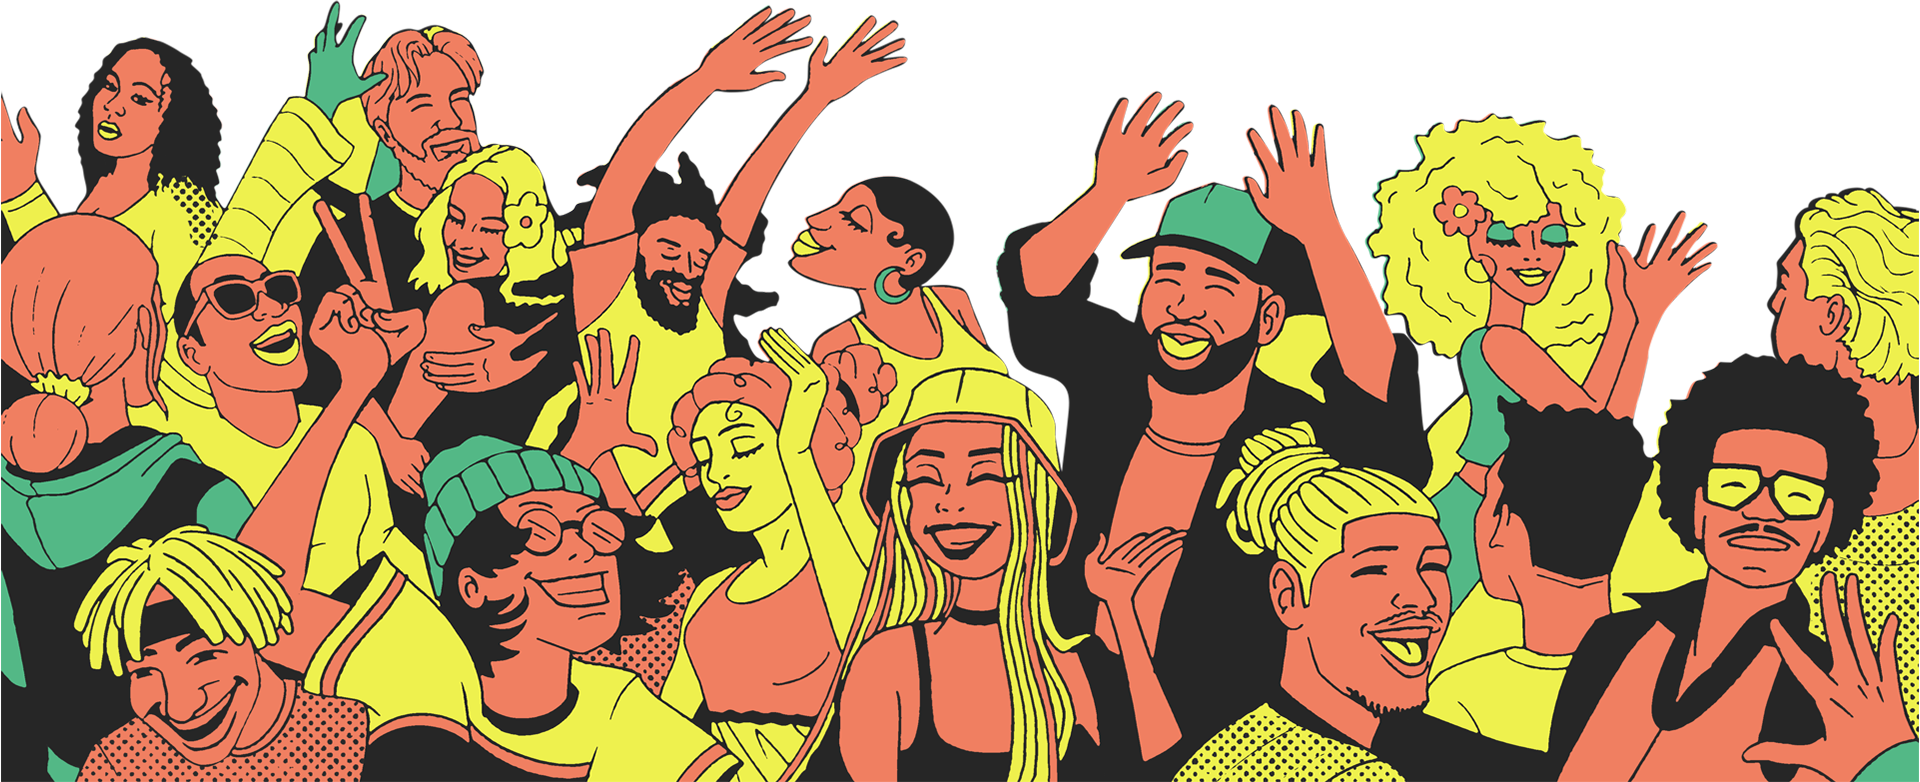
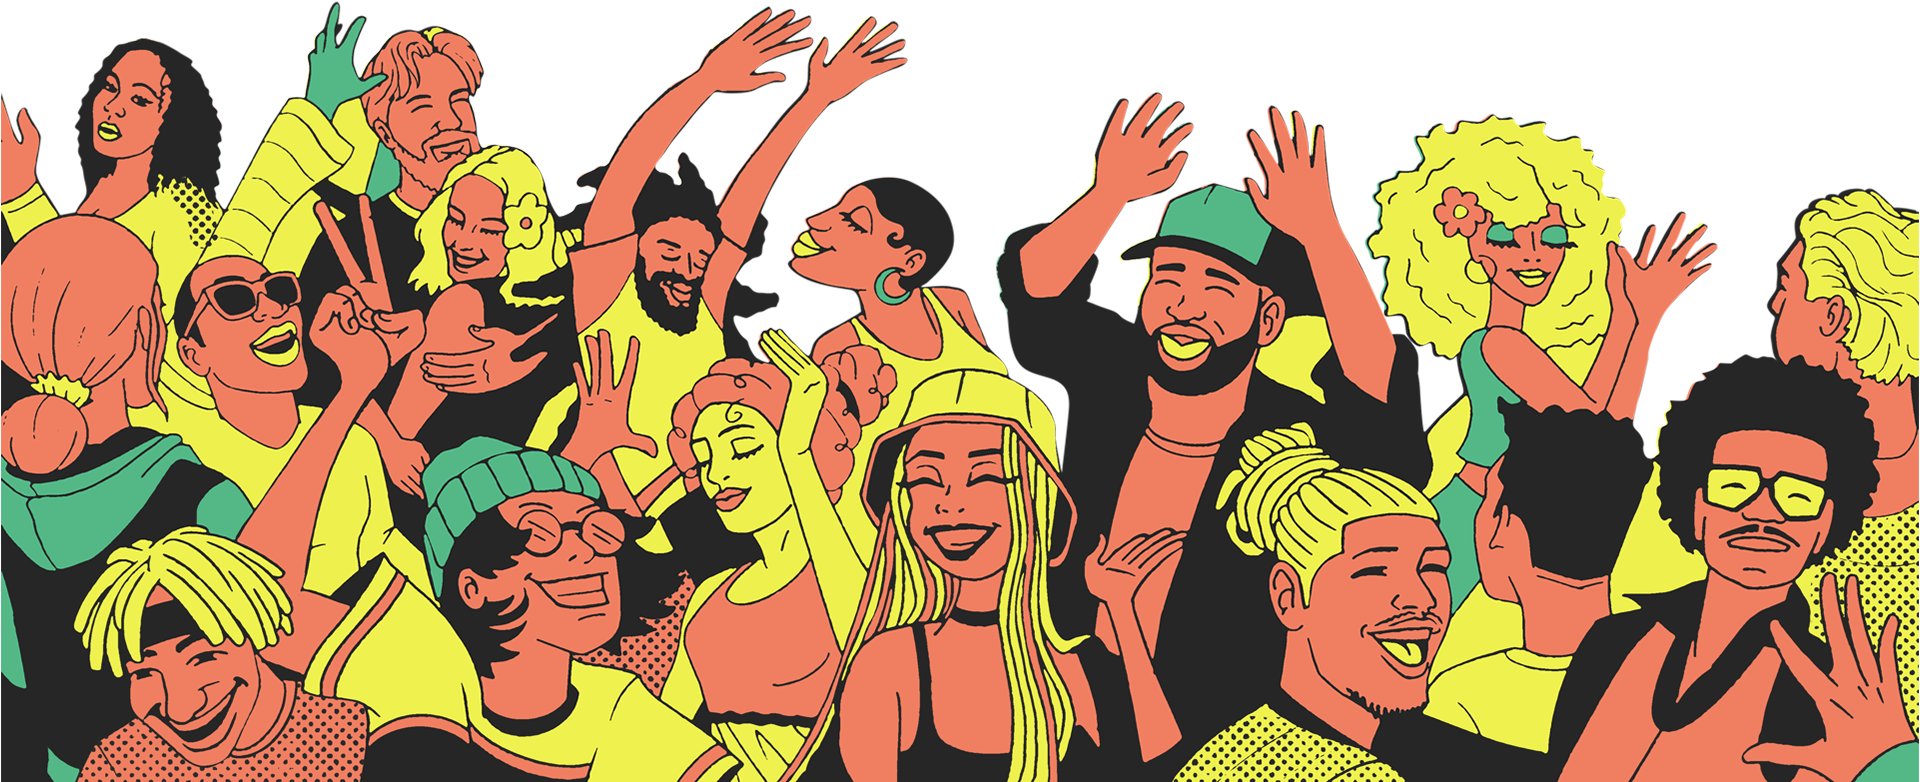
modify positioning issue with coming soon verbiage

diff --git a/assets/scss/style.css b/assets/scss/style.css
@@ -398,19 +398,19 @@ header.in nav {
   position: relative;
   z-index: 2;
   width: 100%;
-  top: -50px;
+  top: -25px;
 }
 #splash #splashCopy #crowd2 {
   position: relative;
   z-index: 3;
   width: 100%;
-  top: -110px;
+  top: -96px;
 }
 #splash #splashCopy #crowd1 {
   position: relative;
   z-index: 4;
   width: 100%;
-  top: -215px;
+  top: -210px;
 }
 #splash .button {
   width: 200px;
@@ -420,7 +420,7 @@ header.in nav {
   width: 300px;
   height: auto;
   position: fixed;
-  bottom: 340px;
+  bottom: 320px;
   left: 50%;
   transform: translate(-50%, 0);
   z-index: 6;
@@ -849,9 +849,6 @@ footer .signature a:hover {
   h3 {
     font-size: 2rem;
   }
-  .comingSoon {
-    bottom: 60px;
-  }
   #about section {
     max-width: 800px;
     margin: 50px auto;
@@ -913,6 +910,9 @@ footer .signature a:hover {
   }
 }
 @media (min-width: 853px) {
+  .comingSoon {
+    bottom: 60px;
+  }
   #splash #splashCopy #stage {
     top: 40px;
   }

diff --git a/assets/scss/_screen.scss b/assets/scss/_screen.scss
@@ -357,19 +357,19 @@ header {
 			position: relative;
 			z-index: 2;
 			width: 100%;
-			top: -50px;
+			top: -25px;
 		}
 		#crowd2 {
 			position: relative;
 			z-index: 3;
 			width: 100%;
-			top: -110px;
+			top: -96px;
 		}
 		#crowd1 {
 			position: relative;
 			z-index: 4;
 			width: 100%;
-			top: -215px;
+			top: -210px;
 		}
 	}
 	.button {
@@ -380,7 +380,7 @@ header {
 	width: 300px;
 	height: auto;
 	position: fixed;
-	bottom: 340px;
+	bottom: 320px;
 	left: 50%;
 	transform: translate(-50%,0);
 	z-index: 6;
@@ -845,9 +845,6 @@ footer {
 	h3 {
 		font-size: 2rem;
 	}
-	.comingSoon {
-		bottom: 60px;
-	}
 	#about {
 		section {
 			max-width: 800px;
@@ -925,6 +922,9 @@ footer {
 	}
 }
 @media (min-width: 853px) {
+	.comingSoon {
+		bottom: 60px;
+	}
 	#splash {
 		#splashCopy {
 			#stage {
